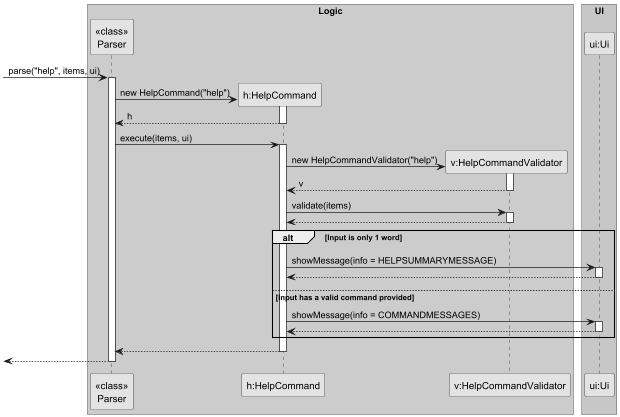
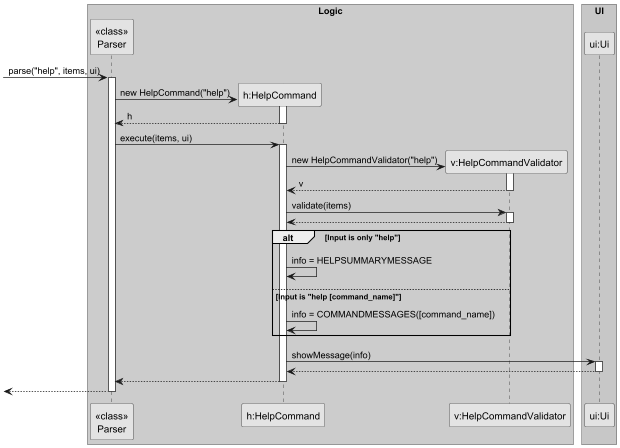
Edit DG, update known commands in TypoDetector, edit PPP, HelpCommand

diff --git a/src/main/java/seedu/inventorybro/TypoDetector.java b/src/main/java/seedu/inventorybro/TypoDetector.java
@@ -12,7 +12,8 @@ import java.util.Optional;
  */
 public class TypoDetector {
     private static final List<String> KNOWN_COMMANDS = Arrays.asList(
-            "addItem", "deleteItem", "editItem", "transact", "listItems", "help", "exit"
+            "addItem", "deleteItem", "editDescription", "editPrice", "editQuantity", "transact",
+            "filterItem", "showHistory", "listItems", "findItem", "help", "exit"
     );
     private static final double TYPO_THRESHOLD_FACTOR = 0.2;
     private static final Map<Character, int[]> KEY_POSITIONS = buildKeyPositions();

diff --git a/src/main/java/seedu/inventorybro/command/HelpCommand.java b/src/main/java/seedu/inventorybro/command/HelpCommand.java
@@ -235,10 +235,14 @@ public class HelpCommand implements Command {
         new HelpCommandValidator(input).validate(items);
 
         String[] words = input.split(" ");
-        String info;
+
+        assert words.length <= 2 : "Input should have at most 2 words";
+
+        String info = "";
+
         if (words.length == 1) {
             info = HELPSUMMARYMESSAGE;
-        } else {
+        } else if (words.length == 2) {
             info = COMMANDMESSAGES.get(words[1]);
         }
 

diff --git a/docs/DeveloperGuide.md b/docs/DeveloperGuide.md
@@ -17,7 +17,7 @@
     * [Transacting an Item](#transacting-an-item)
     * [Viewing Transaction History](#viewing-transaction-history)
     * [Viewing list of items in the inventory](#viewing-list-of-items-in-the-inventory)
-    * [Viewing help messages of commands](#Viewing-help-instructions-of-how-to-use-commands)
+    * [Viewing help messages of commands](#viewing-help-messages-of-commands)
     * [Storage System](#storage-system)
     * [Command Autocompletion (Trie & JLine)](#command-autocompletion)
     * [Typo Detection](#typo-detection)
@@ -85,7 +85,7 @@ The `Parser` is responsible for routing user input to the correct command.
 
 The add mechanism is handled by the `AddCommand` class. It validates the input, creates a new `Item` with a name, quantity, and price, and appends it to the inventory.
 
-**Figure 13: Add Command Class Diagram**
+**Figure 4: Add Command Class Diagram**
 ![Add Command Class Diagram](diagrams/AddCommandClassDiagram.png)
 
 **Step-by-step Execution:**
@@ -102,14 +102,14 @@ The add mechanism is handled by the `AddCommand` class. It validates the input, 
 7. A new `Item` is constructed via `new Item(name, quantity, price)` and appended to the `ItemList` via `items.addItem(newItem)`.
 8. `ui.showMessage("Added: " + newItem)` confirms the addition to the user.
 
-**Figure 14: Add Command Sequence Diagram**
+**Figure 5: Add Command Sequence Diagram**
 ![Add Command Sequence Diagram](diagrams/AddCommandSequenceDiagram.png)
 
 ---
 
 ### Deleting an Item
 
-**Figure 15: Delete Command Class Diagram**
+**Figure 6: Delete Command Class Diagram**
 ![Delete Class Diagram](diagrams/DeleteClassDiagram.png)
 
 **Step-by-step Execution:**
@@ -120,7 +120,7 @@ The add mechanism is handled by the `AddCommand` class. It validates the input, 
 5. If validation passes, `DeleteCommand` calculates the zero-based index and calls `deleteItem()` on the `ItemList`.
 6. Finally, a success message containing the removed item's details is passed to the `Ui` to be displayed to the user.
 
-**Figure 16: Delete Command Sequence Diagram**
+**Figure 7: Delete Command Sequence Diagram**
 ![Delete Sequence Diagram](diagrams/DeleteSequenceDiagram.png)
 
 ---
@@ -129,7 +129,7 @@ The add mechanism is handled by the `AddCommand` class. It validates the input, 
 
 The edit-description mechanism is handled by the `EditDescriptionCommand` class. It updates the description field of an existing item in the inventory.
 
-**Figure 30: Edit Description Command Class Diagram**
+**Figure 8: Edit Description Command Class Diagram**
 ![Edit Description Command Class Diagram](diagrams/EditDescriptionCommandClassDiagram.png)
 
 **Step-by-step Execution:**
@@ -144,7 +144,7 @@ The edit-description mechanism is handled by the `EditDescriptionCommand` class.
    - Trims the text after `d/`; if it is empty, it throws `IllegalArgumentException` with `"Item description cannot be empty."`.
 6. If validation passes, `EditDescriptionCommand` performs the same parse: splits on the first space, then on `d/`, converts the index to zero-based, and trims the new description string. It calls `items.getItem(index)` to retrieve the target `Item`, then calls `item.setDescription(newDescription)` to update it in-place. Finally, it calls `ui.showMessage("Item description updated: " + item)` to confirm the change to the user.
 
-**Figure 31: Edit Description Command Sequence Diagram**
+**Figure 9: Edit Description Command Sequence Diagram**
 ![Edit Description Command Sequence Diagram](diagrams/EditDescriptionCommandSequenceDiagram.png)
 
 ---
@@ -153,7 +153,7 @@ The edit-description mechanism is handled by the `EditDescriptionCommand` class.
 
 The edit-price mechanism is handled by the `EditPriceCommand` class. It updates the price field of an existing item in the inventory.
 
-**Figure 32: Edit Price Command Class Diagram**
+**Figure 10: Edit Price Command Class Diagram**
 ![Edit Price Command Class Diagram](diagrams/EditPriceCommandClassDiagram.png)
 
 **Step-by-step Execution:**
@@ -168,7 +168,7 @@ The edit-price mechanism is handled by the `EditPriceCommand` class. It updates 
    - Parses the text after `p/` as a `double`; if the value is negative, it throws `IllegalArgumentException` with `"Price cannot be negative."`.
 6. If validation passes, `EditPriceCommand` performs the same parse: splits on the first space, then on `p/`, converts the index to zero-based, and parses the new price as a `double`. It calls `items.getItem(index)` to retrieve the target `Item`, then calls `item.setPrice(newPrice)` to update it in-place. Finally, it calls `ui.showMessage("Item price updated: " + item)` to confirm the change to the user.
 
-**Figure 33: Edit Price Command Sequence Diagram**
+**Figure 11: Edit Price Command Sequence Diagram**
 ![Edit Price Command Sequence Diagram](diagrams/EditPriceCommandSequenceDiagram.png)
 
 ---
@@ -177,7 +177,7 @@ The edit-price mechanism is handled by the `EditPriceCommand` class. It updates 
 
 The edit-quantity mechanism is handled by the `EditQuantityCommand` class. It updates the quantity field of an existing item in the inventory.
 
-**Figure 34: Edit Quantity Command Class Diagram**
+**Figure 12: Edit Quantity Command Class Diagram**
 ![Edit Quantity Command Class Diagram](diagrams/EditQuantityCommandClassDiagram.png)
 
 **Step-by-step Execution:**
@@ -192,14 +192,14 @@ The edit-quantity mechanism is handled by the `EditQuantityCommand` class. It up
    - Parses the text after `q/` as an integer; if the value is negative, it throws `IllegalArgumentException` with `"Quantity cannot be negative."`.
 6. If validation passes, `EditQuantityCommand` performs the same parse: splits on the first space, then on `q/`, converts the index to zero-based, and parses the new quantity as an integer. It calls `items.getItem(index)` to retrieve the target `Item`, then calls `item.setQuantity(newQuantity)` to update it in-place. Finally, it calls `ui.showMessage("Item quantity updated: " + item)` to confirm the change to the user.
 
-**Figure 35: Edit Quantity Command Sequence Diagram**
+**Figure 13: Edit Quantity Command Sequence Diagram**
 ![Edit Quantity Command Sequence Diagram](diagrams/EditQuantityCommandSequenceDiagram.png)
 
 ---
 
 ### Finding an Item
 
-**Figure 17: Find Command Class Diagram**
+**Figure 14: Find Command Class Diagram**
 ![Find Class Diagram](diagrams/FindClassDiagram.png)
 
 **Step-by-step Execution:**
@@ -209,7 +209,7 @@ The edit-quantity mechanism is handled by the `EditQuantityCommand` class. It up
 4. The command iterates through the `ItemList`, retrieving each `Item` and checking if its description contains the target keyword.
 5. Matching items are immediately passed to the `Ui` to be displayed. If no items match by the end of the loop, a "not found" message is displayed instead.
 
-**Figure 18: Find Command Sequence Diagram**
+**Figure 15: Find Command Sequence Diagram**
 ![Find Sequence Diagram](diagrams/FindSequenceDiagram.png)
 
 ---
@@ -218,7 +218,7 @@ The edit-quantity mechanism is handled by the `EditQuantityCommand` class. It up
 
 The filter mechanism is handled by the `FilterCommand` class. It evaluates one or more field-operator-value predicates — joined by `AND` / `OR` — against every item in the inventory and displays all matching results.
 
-**Figure 19: Filter Command Class Diagram**
+**Figure 16: Filter Command Class Diagram**
 ![Filter Command Class Diagram](diagrams/FilterCommandClassDiagram.png)
 
 **Step-by-step Execution:**
@@ -232,7 +232,7 @@ The filter mechanism is handled by the `FilterCommand` class. It evaluates one o
 8. `collectMatchingItems()` iterates every `Item` in the `ItemList`. For each item, `passesFilter()` checks whether it satisfies every predicate in at least one AND-group. Within a group, `evaluatePredicate()` resolves each field: `description` uses `String.compareTo`; `quantity` uses `Integer.compare`; `price` rounds both the item's stored price and the filter value to 2 decimal places via `Math.round(x * 100) / 100.0` and then uses `Double.compare`. The comparator result is tested against `=`, `<`, or `>` by `satisfiesOperator()`.
 9. If no items match, `Ui` displays `"No items match the given filter."`. Otherwise it displays `"Here are the filtered items:"` followed by a numbered list of matching items in their original inventory order.
 
-**Figure 20: Filter Command Sequence Diagram**
+**Figure 17: Filter Command Sequence Diagram**
 ![Filter Command Sequence Diagram](diagrams/FilterCommandSequenceDiagram.png)
 
 ---
@@ -241,7 +241,7 @@ The filter mechanism is handled by the `FilterCommand` class. It evaluates one o
 
 The transact mechanism is handled by the `TransactCommand` class. It updates an item's quantity and records the transaction.
 
-**Figure 21: Transact Command Class Diagram**
+**Figure 18: Transact Command Class Diagram**
 ![Transact Class Diagram](diagrams/TransactCommandClassDiagram.png)
 
 **Step-by-step Execution:**
@@ -257,7 +257,7 @@ The transact mechanism is handled by the `TransactCommand` class. It updates an 
 8. `TransactionStorage.saveHistory()` records the transaction
 9. UI displays updated quantity
 
-**Figure 22: Transact Command Sequence Diagram**
+**Figure 19: Transact Command Sequence Diagram**
 ![Transact Sequence Diagram](diagrams/TransactCommandSequenceDiagram.png)
 
 ---
@@ -266,7 +266,7 @@ The transact mechanism is handled by the `TransactCommand` class. It updates an 
 
 The `ShowTransactionHistoryCommand` retrieves and displays all past transactions.
 
-**Figure 23: Show History Class Diagram**
+**Figure 20: Show History Class Diagram**
 ![Show History Class Diagram](diagrams/ShowTransactionHistoryCommandClassDiagram.png)
 
 **Step-by-step Execution:**
@@ -277,11 +277,14 @@ The `ShowTransactionHistoryCommand` retrieves and displays all past transactions
 5. If empty → show message
 6. Otherwise → iterate and print all entries
 
-**Figure 24: Show History Sequence Diagram**
+**Figure 21: Show History Sequence Diagram**
 ![Show History Sequence Diagram](diagrams/ShowTransactionHistoryCommandSequenceDiagram.png)
 
 ### Viewing list of items in the inventory
-**Figure 25: List Command Class Diagram**
+
+The `ListCommand` class handles the mechanism of displaying the list of all items in the inventory to the user in the default or sorted order.
+
+**Figure 22: List Command Class Diagram**
 ![Show List Command Class Diagram](diagrams/ListCommandClassDiagram.png)
 
 **Step-by-step Execution:**
@@ -293,11 +296,14 @@ The `ShowTransactionHistoryCommand` retrieves and displays all past transactions
 6. Otherwise, checks if the input contains descriptors for sorting. If it does, it retrieves the sorted list of items by the property and order given in the input and passes it to the `ui` to display to the user.
 7. Else, it passes the default order of the list of items to the `ui` to display to the user.
 
-**Figure 26: List Command Sequence Diagram**
+**Figure 23: List Command Sequence Diagram**
 ![List Command Sequence Diagram](diagrams/ListCommandSequenceDiagram.png)
 
 ### Viewing help messages of commands
-**Figure 27: Help Command Sequence Diagram**
+
+The `HelpCommand` class handles the mechanism of displaying all command names and their summaries or detailed instructions of a particular command indicated by the user.
+
+**Figure 24: Help Command Sequence Diagram**
 ![Show Help Command Class Diagram](diagrams/HelpCommandClassDiagram.png)
 
 **Step-by-step Execution:**
@@ -309,7 +315,7 @@ The `ShowTransactionHistoryCommand` retrieves and displays all past transactions
     * If yes, then the detailed instruction of that particular command is passed to the `ui` to be displayed to the user.
     * If no, which means the user input is only `help`, then the command names and their summaries are passed to the `ui` to display to the user.
 
-**Figure 28: Help Command Sequence Diagram**
+**Figure 25: Help Command Sequence Diagram**
 ![Help Command Sequence Diagram](diagrams/HelpCommandSequenceDiagram.png)
 
 ---
@@ -317,7 +323,7 @@ The `ShowTransactionHistoryCommand` retrieves and displays all past transactions
 
 The storage system is responsible for persisting both inventory data and transaction history.
 
-**Figure 25: Storage Class Diagram**
+**Figure 26: Storage Class Diagram**
 ![Storage Class Diagram](diagrams/StorageClassDiagram.png)
 
 **Design breakdown:**
@@ -345,7 +351,7 @@ The storage system is responsible for persisting both inventory data and transac
 
 The autocompletion mechanism is handled by the `Autocompleter` class, which wraps a `Trie` data structure and integrates with JLine's completer API to provide real-time tab-completion of command keywords in interactive terminal sessions.
 
-**Figure 26: Autocompleter Class Diagram**
+**Figure 27: Autocompleter Class Diagram**
 
 ![Autocompleter Class Diagram](diagrams/AutocompleterClassDiagram.png)
 
@@ -368,7 +374,7 @@ The autocompletion mechanism is handled by the `Autocompleter` class, which wrap
 7. The list of matching keywords is returned to `Ui.complete()`, which wraps each keyword in a `Candidate` object and adds it to JLine's `candidates` list.
 8. JLine displays the candidates to the user in the terminal (inline if only one match, or as a menu if multiple).
 
-**Figure 27: Autocompleter Sequence Diagram**
+**Figure 28: Autocompleter Sequence Diagram**
 ![Autocompleter Sequence Diagram](diagrams/AutocompleterSequenceDiagram.png)
 
 ---
@@ -377,7 +383,7 @@ The autocompletion mechanism is handled by the `Autocompleter` class, which wrap
 
 When a user enters an unknown command, InventoryBRO attempts to detect whether it is a near-miss typo and suggests the closest known command.
 
-**Figure 28: Typo Detector Class Diagram**
+**Figure 29: Typo Detector Class Diagram**
 ![Typo Detector Class Diagram](diagrams/TypoDetectorClassDiagram.png)
 
 **Step-by-step Execution:**
@@ -385,11 +391,11 @@ When a user enters an unknown command, InventoryBRO attempts to detect whether i
 2. `Parser.parseCommand()` evaluates the first word against all known command keywords in the switch statement and returns `null` because no branch matches.
 3. `Parser.parse()` detects the `null` result and calls `handleUnknownCommand(line, ui)`.
 4. `handleUnknownCommand()` extracts the first word from the raw input and calls `TYPO_DETECTOR.findClosestMatch(firstWord)`.
-5. `TypoDetector.findClosestMatch()` converts the input to lowercase and iterates over `KNOWN_COMMANDS` (`addItem`, `deleteItem`, `editItem`, `transact`, `listItems`, `help`, `exit`). For each known command it calls `calculateWeightedEditDistance()`, which uses dynamic programming with QWERTY keyboard Manhattan distance as the substitution cost: adjacent keys on the same row cost less than keys far apart, encouraging the algorithm to prefer swaps of physically close keys over arbitrary substitutions.
+5. `TypoDetector.findClosestMatch()` converts the input to lowercase and iterates over `KNOWN_COMMANDS` (`addItem`, `deleteItem`, `editDescription`, `editPrice`, `editQuantity`, `transact`, `filterItem`, `showHistory`, `listItems`, `findItem`, `help`, `exit`). For each known command it calls `calculateWeightedEditDistance()`, which uses dynamic programming with QWERTY keyboard Manhattan distance as the substitution cost: adjacent keys on the same row cost less than keys far apart, encouraging the algorithm to prefer swaps of physically close keys over arbitrary substitutions.
 6. After scoring all commands, `findClosestMatch()` calls `isBelowTypoThreshold()` on the best candidate. The threshold is `TYPO_THRESHOLD_FACTOR (0.2) * max(inputLength, commandLength)`. If the best distance is below this threshold the command name is returned as a non-empty `Optional`; otherwise an empty `Optional` is returned.
 7. Back in `handleUnknownCommand()`, if the `Optional` is present, `ui.showMessage("Do you mean " + suggestion + "?")` prompts the user with the suggested correction. If no command qualifies, `ui.showError(...)` displays the full list of valid commands.
 
-**Figure 29: Typo Detector Sequence Diagram**
+**Figure 30: Typo Detector Sequence Diagram**
 ![Typo Detector Sequence Diagram](diagrams/TypoDetectorSequenceDiagram.png)
 
 ---
@@ -425,21 +431,21 @@ accuracy (clear, structured output)
 
 ## User Stories
 
-| Version | As a ...    | I want to ...                                                  | So that I can ...                                            |
-|---------|-------------|----------------------------------------------------------------|--------------------------------------------------------------|
-| v1.0    | new user    | see usage instructions                                         | refer to them when I forget how to use the application       |
-| v1.0    | store owner | add items                                                      | keep track of new products in my inventory                   |
-| v1.0    | store owner | delete items                                                   | remove products that are no longer sold                      |
-| v1.0    | store owner | edit item details                                              | update product name or quantity when needed                  |
-| v1.0    | store owner | view all items                                                 | know information of products I currently have                |
-| v1.0    | store owner | update item quantity via transactions                          | record sales or restocking accurately                        |
-| v1.0    | store owner | exit the application                                           | safely close the program after use                           |
-| v2.0    | store owner | find items by keyword                                          | locate items quickly without scanning the full list          |
-| v2.0    | store owner | view transaction history                                       | review past transactions for tracking and reference          |
-| v2.0    | store owner | have my inventory automatically saved                          | avoid losing data when I close the application               |
-| v2.0    | store owner | load previously saved inventory                                | continue managing my shop from where I left off              |
-| v2.0    | store owner | view the list of items sorted by an item property of my choice | quickly view which items have, for example, lower quantities |
-| v2.0    | store owner | view detailed instructions for a specific command              | learn how to use a command correctly                         |
+| Version | As a ...    | I want to ...                                     | So that I can ...                                            |
+|---------|-------------|---------------------------------------------------|--------------------------------------------------------------|
+| v1.0    | new user    | see usage instructions                            | refer to them when I forget how to use the application       |
+| v1.0    | store owner | add items                                         | keep track of new products in my inventory                   |
+| v1.0    | store owner | delete items                                      | remove products that are no longer sold                      |
+| v1.0    | store owner | edit item details                                 | update product name or quantity when needed                  |
+| v1.0    | store owner | view all items                                    | know information of products I currently have                |
+| v1.0    | store owner | update item quantity via transactions             | record sales or restocking accurately                        |
+| v1.0    | store owner | exit the application                              | safely close the program after use                           |
+| v2.0    | store owner | find items by keyword                             | locate items quickly without scanning the full list          |
+| v2.0    | store owner | view transaction history                          | review past transactions for tracking and reference          |
+| v2.0    | store owner | have my inventory automatically saved             | avoid losing data when I close the application               |
+| v2.0    | store owner | load previously saved inventory                   | continue managing my shop from where I left off              |
+| v2.0    | store owner | view a sorted list of items                       | quickly view which items have, for example, lower quantities |
+| v2.0    | store owner | view detailed instructions for a specific command | learn how to use a command correctly                         |
 
 ---
 

diff --git a/docs/team/adbsw.md b/docs/team/adbsw.md
@@ -22,6 +22,6 @@ InventoryBro is an inventory management tracking application interacted via a CL
 * Contributions to the DG:
   * Sections:
     * Added: Implementation - Viewing list of items in the inventory, Implementation - Viewing help messages of commands
-    * Updated: Product scope - User Stories, Product scope - Instructions for manual testing
+    * Updated: Product scope - User Stories
   * UML diagrams:
     * Added: ListCommand class diagram, ListCommand sequence diagram, HelpCommand class diagram, HelpCommand sequence diagram
